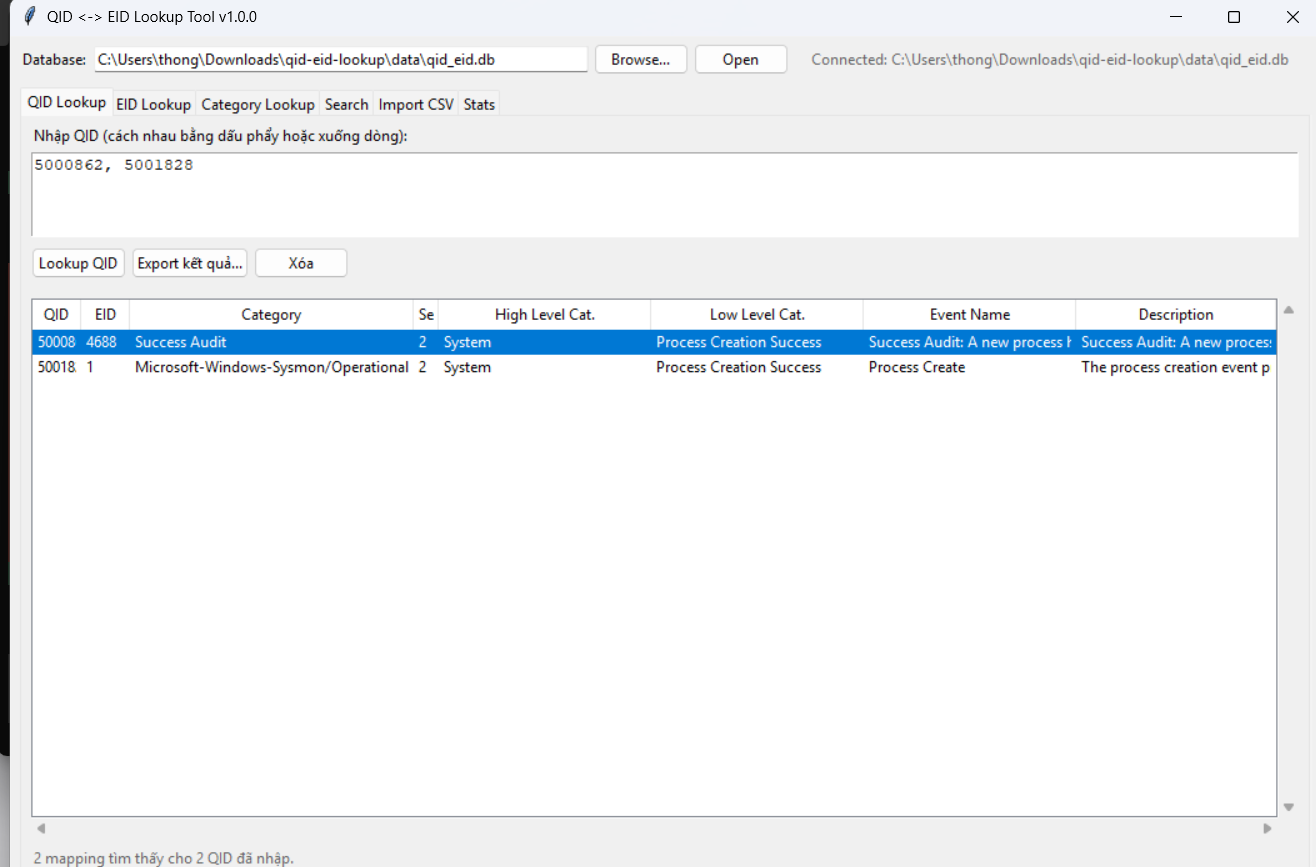
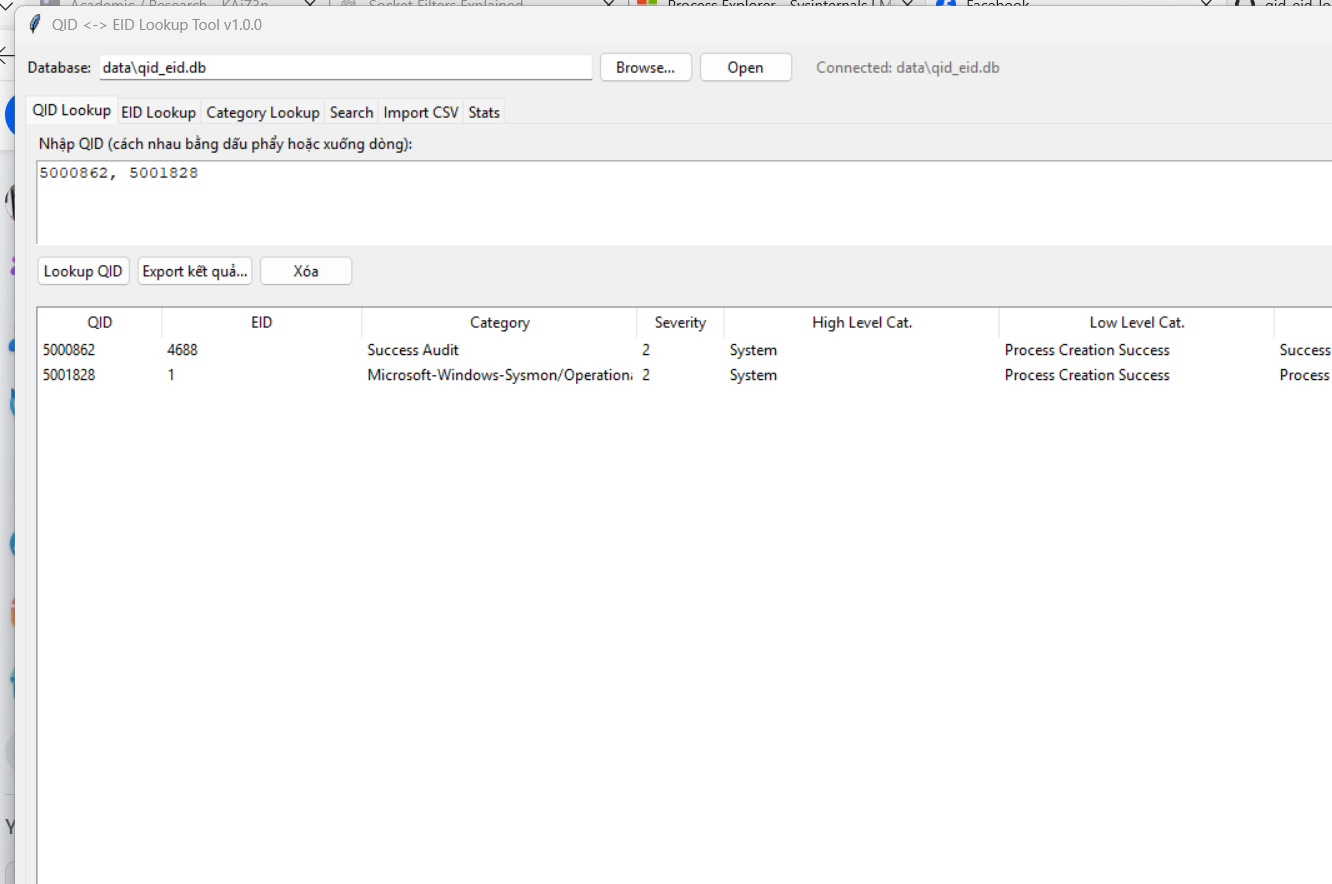
Fix truncated QIDs in GUI results

diff --git a/src/qidlookup/gui/app.py b/src/qidlookup/gui/app.py
@@ -50,7 +50,7 @@ _HEADINGS = {
     "event_name": "Event Name",
     "description": "Description",
 }
-_WIDTHS = {"qid": 90, "eid": 90, "severity": 60}
+_WIDTHS = {"qid": 100, "eid": 160, "severity": 70}
 
 
 class QidLookupApp(tk.Tk):
@@ -150,7 +150,8 @@ class QidLookupApp(tk.Tk):
         tree = ttk.Treeview(frame, columns=_COLUMNS, show="headings", height=16)
         for col in _COLUMNS:
             tree.heading(col, text=_HEADINGS[col])
-            tree.column(col, width=_WIDTHS.get(col, 220), anchor="w")
+            width = _WIDTHS.get(col, 220)
+            tree.column(col, width=width, minwidth=width, stretch=False, anchor="w")
         vsb = ttk.Scrollbar(frame, orient="vertical", command=tree.yview)
         hsb = ttk.Scrollbar(frame, orient="horizontal", command=tree.xview)
         tree.configure(yscrollcommand=vsb.set, xscrollcommand=hsb.set)
